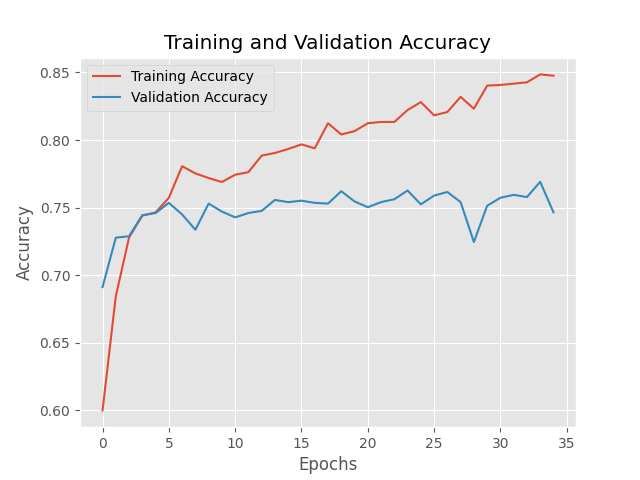
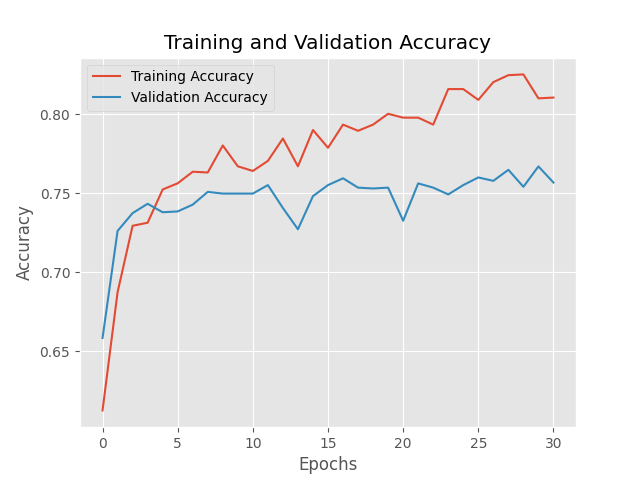
Rerun CNN-batch norm

diff --git a/model.py b/model.py
@@ -25,8 +25,7 @@ class Network(nn.Module):
                                 nn.ReLU(),
                                 nn.Linear(2048, 512),
                                 nn.ReLU(),
-                                nn.Linear(512,2),
-                                nn.LogSoftmax(dim=1))
+                                nn.Linear(512,2))
 
     def forward(self, x):
         x = F.relu(F.max_pool2d(self.conv1(x), 2))

diff --git a/main.py b/main.py
@@ -89,7 +89,7 @@ def main():
 
     training_stats = train(model, optimizer, train_data, test_data, device, 100)
     
-    ut.plot_training_stats(training_stat)
+    ut.plot_training_stats(training_stats)
 
     torch.save(model.state_dict(), 'models/model.pt')
     ut.save_training_stats(training_stats, 'Resnet50-transfer.csv')
